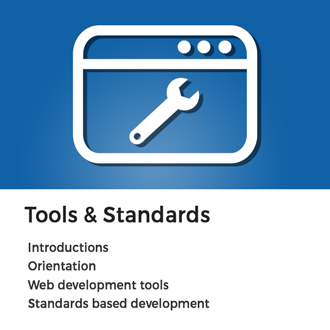
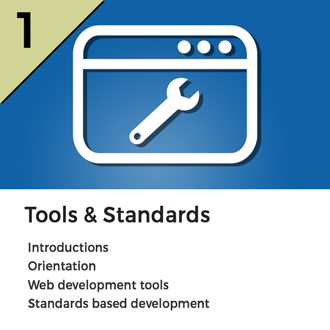
Added all images, and hover over. Only placeholder, I need to change the text to html so when it hovers over it doesnt degrade in quality.

Changed region(s): [[0.0, 0.0, 0.3333, 0.3333]]

diff --git a/final/index.html b/final/index.html
@@ -5,6 +5,8 @@
         <title>Comp 1950 | Intermediate Web Design and Development - BCIT</title>
         <meta name="description" content="Comp 1950">
         <link rel="stylesheet" href="assets/css/group-style.css">
+        
+        <link href="https://fonts.googleapis.com/css?family=Montserrat" rel="stylesheet">
 
         <!--[if lt IE 9]>
         <script src="https://cdnjs.cloudflare.com/ajax/libs/html5shiv/3.7.3/html5shiv.js"></script>
@@ -19,24 +21,28 @@
         </header>
 
         <main>
+            <h1>Lessons: </h1>
             <div class="lecture-container">
-                <div class="lecture"><img src="assets/images/Lesson1-Tools.png" alt="Lesson 1"></div>
-                <div class="lecture"></div>
-                <div class="lecture"></div>
+                <div class="lecture"><a href=""><img src="assets/images/Lesson1-Tools.png" alt="Lesson 1"></a></div>
+                <div class="lecture"><a href=""><img src="assets/images/Lesson2-HTML5.png" alt="Lesson 2"></a></div>     
+                <div class="lecture"><a href=""><img src="assets/images/Lesson3-CSS-techniques.png" alt="Lesson 3"></a></div>                
+                
             </div>
              <div class="lecture-container">
-                <div class="lecture"></div>
-                <div class="lecture"></div>
-                <div class="lecture"></div>
+                <div class="lecture"><a href=""><img src="assets/images/Lesson4-CSS-layouts.png" alt="Lesson 4"></a></div>
+                <div class="lecture"><a href=""><img src="assets/images/Lesson5-ResponsiveCSS.png" alt="Lesson 5"></a></div>
+                <div class="lecture"><a href=""><img src="assets/images/Lesson6-CSS3.png" alt="Lesson 6"></a></div>
+                
             </div>
              <div class="lecture-container">
-                <div class="lecture"></div>
-                <div class="lecture"></div>
-                <div class="lecture"></div>
+                <div class="lecture"><a href=""><img src="assets/images/Lesson7-JavaScriptFrameworks.png" alt="Lesson 7"></a></div>
+                <div class="lecture"><a href=""><img src="assets/images/Lesson8-DynamicContent.png" alt="Lesson 8"></a></div>
+                <div class="lecture"><a href=""><img src="assets/images/Lesson9-TemplateDevelopmentSEO.png" alt="Lesson 9"></a></div>
+                
             </div>
             <div class="lecture-container">
-                <div class="lecture"></div>    
-                <div class="lecture"></div>
+                <div class="lecture"><a href=""><img src="assets/images/Lesson10-Methodology.png" alt="Lesson 10"></a></div>
+                <div class="lecture"><a href=""><img src="assets/images/Lesson11-ProjectWork.png" alt="Lesson 11"></a></div>
             </div>
         </main>
 

diff --git a/final/assets/css/style.css b/final/assets/css/style.css
@@ -22,10 +22,18 @@ nav {
     background-color: black;
 }
 
+h1{
+    margin: 0;
+    text-align: center;
+    padding: 20px;
+    font-size: 3em;
+    font-family: 'Montserrat', sans-serif;
+}
+
 main {
     position: relative;
     min-height: calc(100vh - 300px);
-    background-color: bisque;
+    background-color: #f3f3f3;
 }
 
 footer {
@@ -54,6 +62,14 @@ footer {
     width: 330px;
     -webkit-box-shadow: 10px 10px 16px -6px rgba(125,125,125,1);
     -moz-box-shadow: 10px 10px 16px -6px rgba(125,125,125,1);
+    box-shadow: 10px 10px 16px -6px rgba(125,125,125,1);
+    transition: all .3s ease;
+}
+
+.lecture:hover img{
+    
+    height: 340px;
+    width: 340px;
     box-shadow: 10px 10px 16px -6px rgba(125,125,125,1);
 }
 
